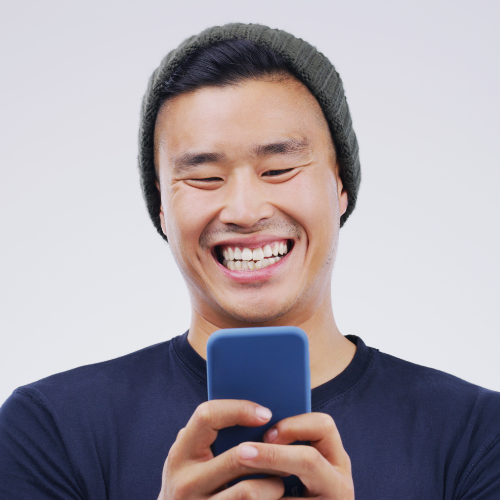
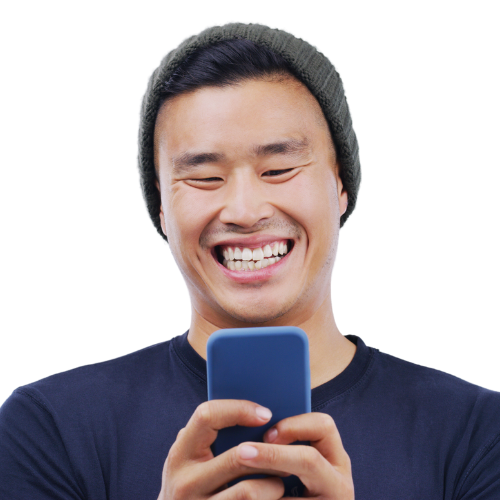
image ketawa added

diff --git a/components/HeroSection.vue b/components/HeroSection.vue
@@ -40,13 +40,16 @@
         </div>
       </div>
       <div class="flex flex-row">
-        <div class="bg-lime-400 w-96 h-96 rounded-full">
-          <div
-            class="ml-16 bg-lime-400 w-96 h-96 rounded-full opacity-50"
-          ></div>
+        <div class="bg-lime-400 w-96 h-96 rounded-full opacity">
+          <div class="ml-16 bg-lime-400 w-96 h-96 rounded-full opacity-50">
+            <NuxtImg
+              src="/ketawa.png"
+              class="rounded-full w-[450px] opacity-50"
+            />
+          </div>
         </div>
-        <div class="">
-          <NuxtImg src="/ketawa.png" />
+        <div class="ml-20">
+          <NuxtImg src="/ketawa.png" class="rounded-full w-[450px]" />
         </div>
       </div>
     </div>
